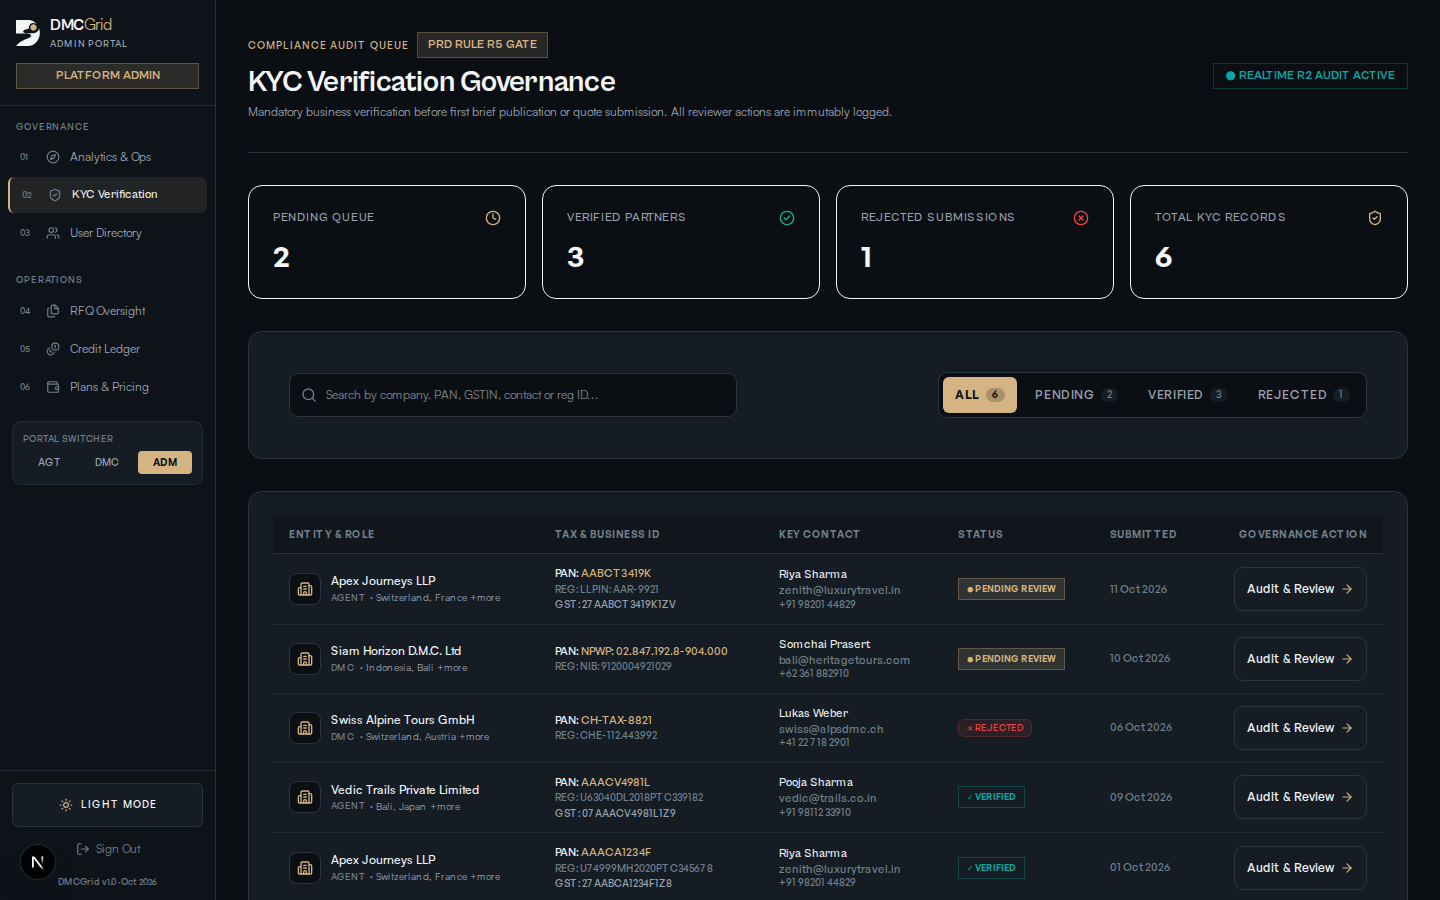
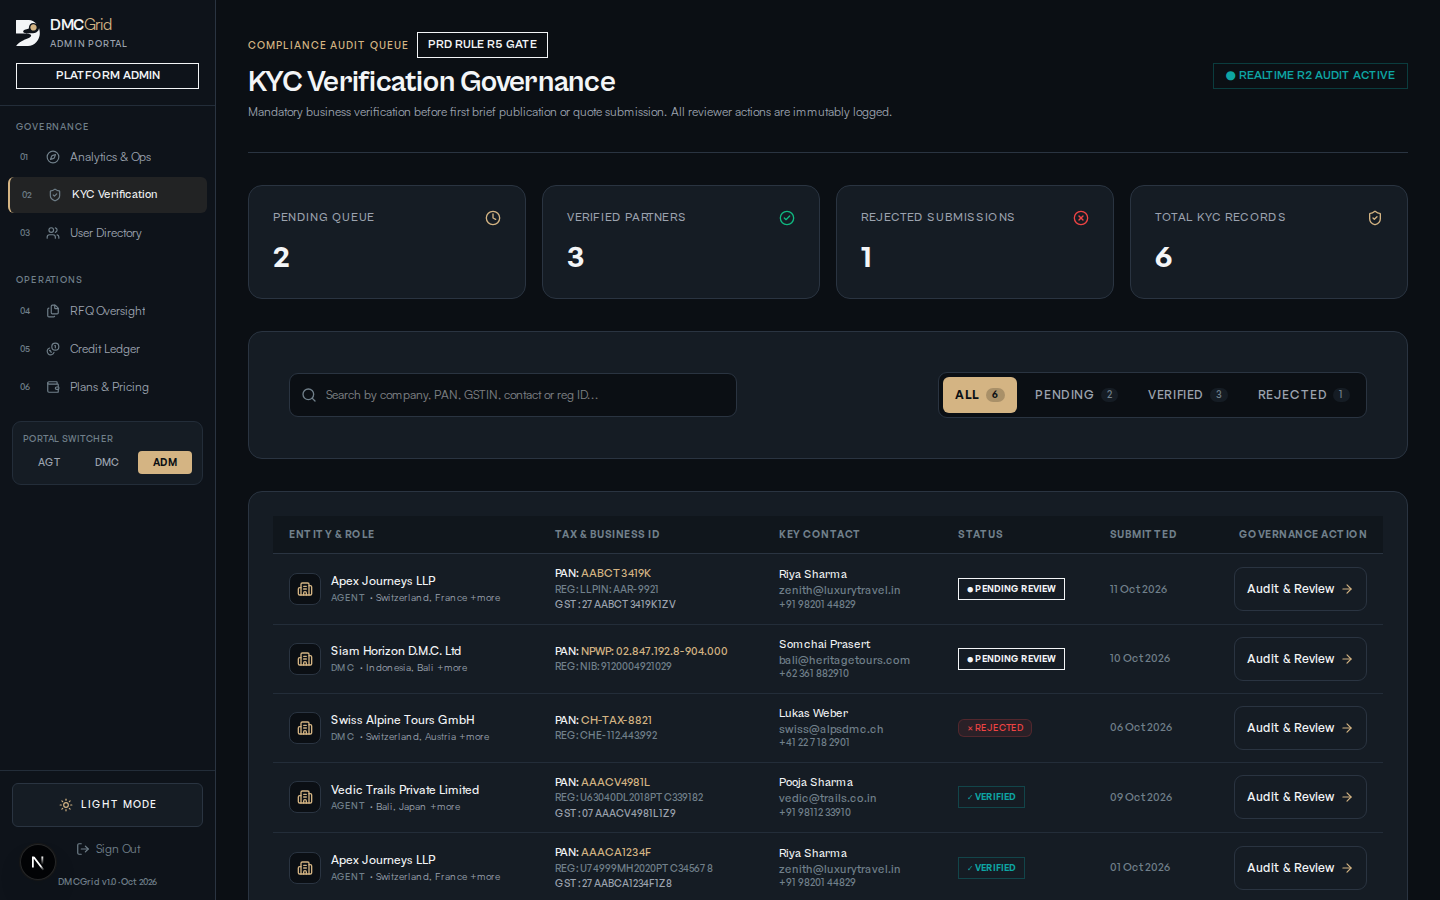
Design system: fix light-mode contrast + gray ground
- root cause: Card/Button/Badge/Input/Modal/StatCard hardcoded dark hexes with data-[theme=light]: SELF-variants that never inherit from <html> -> light mode kept light text on light cards
- all core ui components now theme via CSS vars (--bg-card, --border-line, --text-primary, --accent-gold-soft...)
- light ground: ivory #F7F3E9 -> gray #F2F3F5 per Dhrumil's directive (tokens.css + globals.css; sidebar/elevated/borders retuned)
- verified: wallet light-mode stat value rgb(11,15,20) on white; admin E2E 10/10; wave3 E2E 13/13; next build clean

diff --git a/platform/packages/ui/src/components/modal.tsx b/platform/packages/ui/src/components/modal.tsx
@@ -71,29 +71,29 @@ export function Modal({
         className={cn(
           'relative w-full rounded-[14px] p-6 shadow-2xl z-10 transition-all duration-200 ease-[cubic-bezier(0.23,1,0.32,1)]',
           'bg-[#1F2937] border border-[#2A3441] text-[#F3F5F7]',
-          'data-[theme=light]:bg-[#FFFFFF] data-[theme=light]:border-[#D6E0E3] data-[theme=light]:text-[#0B0F14]',
+          'bg-[var(--bg-card)] border border-[var(--border-line)] text-[var(--text-primary)]',
           maxWidths[maxWidth],
           className
         )}
       >
         {/* Header */}
         {(title || description) && (
-          <div className="flex items-start justify-between gap-4 pb-4 border-b border-[#2A3441]/60 data-[theme=light]:border-[#D6E0E3]">
+          <div className="flex items-start justify-between gap-4 pb-4 border-b border-[var(--border-subtle)]">
             <div className="space-y-1">
               {title && (
-                <h3 className="text-base font-semibold tracking-tight text-[#F3F5F7] data-[theme=light]:text-[#0B0F14]">
+                <h3 className="text-base font-semibold tracking-tight text-[var(--text-primary)]">
                   {title}
                 </h3>
               )}
               {description && (
-                <p className="text-xs text-[#9CA3AF] data-[theme=light]:text-[#71808B]">
+                <p className="text-xs text-[var(--text-muted)]">
                   {description}
                 </p>
               )}
             </div>
             <button
               onClick={onClose}
-              className="text-[#9CA3AF] hover:text-[#F3F5F7] data-[theme=light]:hover:text-[#0B0F14] transition-colors p-1 rounded-md min-h-[36px] min-w-[36px] flex items-center justify-center"
+              className="text-[var(--text-secondary)] hover:text-[var(--text-primary)] transition-colors p-1 rounded-md min-h-[36px] min-w-[36px] flex items-center justify-center"
               aria-label="Close modal"
             >
               <X className="w-4 h-4" />
@@ -102,13 +102,13 @@ export function Modal({
         )}
 
         {/* Content */}
-        <div className="py-4 text-xs leading-relaxed text-[#F3F5F7] data-[theme=light]:text-[#0B0F14]">
+        <div className="py-4 text-xs leading-relaxed text-[var(--text-primary)]">
           {children}
         </div>
 
         {/* Footer */}
         {footer && (
-          <div className="pt-4 border-t border-[#2A3441]/60 data-[theme=light]:border-[#D6E0E3] flex items-center justify-end gap-3">
+          <div className="pt-4 border-t border-[var(--border-subtle)] flex items-center justify-end gap-3">
             {footer}
           </div>
         )}

diff --git a/platform/packages/ui/src/components/button.tsx b/platform/packages/ui/src/components/button.tsx
@@ -16,19 +16,16 @@ export const Button = React.forwardRef<HTMLButtonElement, ButtonProps>(
       'disabled:opacity-50 disabled:pointer-events-none disabled:active:scale-100 rounded-[9px] min-h-[44px]';
 
     const variants: Record<NonNullable<ButtonProps['variant']>, string> = {
-      // Luxury B2B: Black & White / Deep Slate CTAs, never garish gold buttons
+      // Luxury B2B: Black & White / Deep Slate CTAs, never garish gold buttons.
+      // Theme via CSS vars only — data-[theme=light]: self-variants don't inherit from <html>.
       primary:
-        'bg-[#F3F5F7] text-[#0B0F14] hover:bg-white shadow-[0_1px_3px_rgba(0,0,0,0.2)] ' +
-        'data-[theme=light]:bg-[#0B0F14] data-[theme=light]:text-[#F7F3E9] data-[theme=light]:hover:bg-[#1F2937]',
+        'bg-[var(--text-primary)] text-[var(--bg-card)] hover:opacity-90 shadow-[0_1px_3px_rgba(0,0,0,0.2)]',
       secondary:
-        'bg-[#1F2937] text-[#F3F5F7] border border-[#2A3441] hover:bg-[#232D39] hover:border-[#3E4A54] ' +
-        'data-[theme=light]:bg-[#FFFFFF] data-[theme=light]:text-[#0B0F14] data-[theme=light]:border-[#D6E0E3] data-[theme=light]:hover:bg-[#F3F5F7]',
+        'bg-[var(--bg-elevated)] text-[var(--text-primary)] border border-[var(--border-line)] hover:border-[var(--text-muted)]',
       outline:
-        'bg-transparent text-[#F3F5F7] border border-[#2A3441] hover:bg-[#1F2937] hover:border-[#3E4A54] ' +
-        'data-[theme=light]:text-[#0B0F14] data-[theme=light]:border-[#D6E0E3] data-[theme=light]:hover:bg-[#F3F5F7]',
+        'bg-transparent text-[var(--text-primary)] border border-[var(--border-line)] hover:bg-[var(--bg-card-hover)]',
       ghost:
-        'bg-transparent text-[#9CA3AF] hover:text-[#F3F5F7] hover:bg-[#1F2937]/50 ' +
-        'data-[theme=light]:text-[#55636E] data-[theme=light]:hover:text-[#0B0F14] data-[theme=light]:hover:bg-[#E8ECF0]',
+        'bg-transparent text-[var(--text-secondary)] hover:text-[var(--text-primary)] hover:bg-[var(--bg-card-hover)]',
       accent:
         'bg-[#D4B483] text-[#0B0F14] font-semibold hover:bg-[#c4a16f] shadow-[0_1px_3px_rgba(212,180,131,0.3)]',
       destructive:

diff --git a/platform/packages/ui/src/components/card.tsx b/platform/packages/ui/src/components/card.tsx
@@ -8,14 +8,11 @@ export interface CardProps extends React.HTMLAttributes<HTMLDivElement> {
 export function Card({ className, variant = 'default', children, ...props }: CardProps) {
   const variants: Record<NonNullable<CardProps['variant']>, string> = {
     default:
-      'bg-[#1F2937] border border-[#2A3441] text-[#F3F5F7] ' +
-      'data-[theme=light]:bg-[#FFFFFF] data-[theme=light]:border-[#D6E0E3] data-[theme=light]:text-[#0B0F14]',
+      'bg-[var(--bg-card)] border border-[var(--border-line)] text-[var(--text-primary)]',
     raised:
-      'bg-[#232D39] border border-[#2A3441] shadow-[0_4px_12px_rgba(0,0,0,0.18)] text-[#F3F5F7] ' +
-      'data-[theme=light]:bg-[#F3F5F7] data-[theme=light]:border-[#D6E0E3] data-[theme=light]:text-[#0B0F14]',
+      'bg-[var(--bg-card-hover)] border border-[var(--border-line)] shadow-[0_4px_12px_rgba(0,0,0,0.18)] text-[var(--text-primary)]',
     highlight:
-      'bg-[#1F2937] border border-[#D4B483]/40 shadow-[0_0_16px_rgba(212,180,131,0.06)] text-[#F3F5F7] ' +
-      'data-[theme=light]:bg-[#FFFFFF] data-[theme=light]:border-[#D4B483]/60 data-[theme=light]:text-[#0B0F14]',
+      'bg-[var(--bg-card)] border border-[var(--accent-gold-ring)] shadow-[0_0_16px_rgba(212,180,131,0.06)] text-[var(--text-primary)]',
   };
 
   return (
@@ -30,7 +27,7 @@ export function Card({ className, variant = 'default', children, ...props }: Car
 
 export function CardHeader({ className, children, ...props }: React.HTMLAttributes<HTMLDivElement>) {
   return (
-    <div className={cn('flex items-center justify-between gap-4 mb-4 pb-3 border-b border-[#2A3441]/60', className)} {...props}>
+    <div className={cn('flex items-center justify-between gap-4 mb-4 pb-3 border-b border-[var(--border-subtle)]', className)} {...props}>
       {children}
     </div>
   );

diff --git a/platform/packages/ui/src/components/badge.tsx b/platform/packages/ui/src/components/badge.tsx
@@ -12,15 +12,15 @@ export function Badge({ className, variant = 'default', dot = false, children, .
 
   const variants: Record<NonNullable<BadgeProps['variant']>, string> = {
     default:
-      'bg-[#1F2937] text-[#9CA3AF] border border-[#2A3441]',
+      'bg-[var(--bg-elevated)] text-[var(--text-secondary)] border border-[var(--border-line)]',
     gold:
-      'bg-[#D4B483]/15 text-[#D4B483] border border-[#D4B483]/30 font-semibold',
+      'bg-[var(--accent-gold-soft)] text-[var(--accent-gold)] border border-[var(--accent-gold-ring)] font-semibold',
     teal:
       'bg-[#0EA5A3]/15 text-[#0EA5A3] border border-[#0EA5A3]/30',
     verified:
       'bg-[#0EA5A3]/15 text-[#0EA5A3] border border-[#0EA5A3]/30 font-semibold',
     neutral:
-      'bg-[#1F2937] text-[#9CA3AF] border border-[#2A3441]',
+      'bg-[var(--bg-elevated)] text-[var(--text-secondary)] border border-[var(--border-line)]',
     success:
       'bg-[#10B981]/15 text-[#10B981] border border-[#10B981]/30',
     warning:
@@ -28,7 +28,7 @@ export function Badge({ className, variant = 'default', dot = false, children, .
     error:
       'bg-[#EF4444]/15 text-[#EF4444] border border-[#EF4444]/30',
     outline:
-      'bg-transparent text-[#9CA3AF] border border-[#2A3441]',
+      'bg-transparent text-[var(--text-secondary)] border border-[var(--border-line)]',
   };
 
   return (

diff --git a/platform/packages/ui/src/components/stat-card.tsx b/platform/packages/ui/src/components/stat-card.tsx
@@ -72,21 +72,21 @@ export function StatCard({
   return (
     <Card className={cn('flex flex-col justify-between gap-3', className)}>
       <div className="flex items-center justify-between">
-        <span className="text-xs uppercase font-medium tracking-wider text-[#9CA3AF]">
+        <span className="text-xs uppercase font-medium tracking-wider text-[var(--text-secondary)]">
           {displayTitle}
         </span>
         {icon && <span className="text-[#D4B483]">{icon}</span>}
       </div>
 
       <div className="flex items-baseline gap-2">
-        <span className="font-mono text-2xl lg:text-3xl font-semibold tracking-tight tabular-nums text-[#F3F5F7] data-[theme=light]:text-[#0B0F14]">
+        <span className="font-mono text-2xl lg:text-3xl font-semibold tracking-tight tabular-nums text-[var(--text-primary)]">
           {displayValue}
         </span>
         {renderDelta()}
       </div>
 
       {displaySubtitle && (
-        <p className="text-xs text-[#71808B] tracking-normal">
+        <p className="text-xs text-[var(--text-muted)] tracking-normal">
           {displaySubtitle}
         </p>
       )}

diff --git a/platform/packages/ui/src/components/input.tsx b/platform/packages/ui/src/components/input.tsx
@@ -24,7 +24,7 @@ export const Input = React.forwardRef<HTMLInputElement, InputProps>(
           ref={ref}
           className={cn(
             'min-h-[44px] h-[44px] w-full px-3.5 text-sm rounded-[9px] outline-none select-text ' +
-            'bg-[#0B0F14] border border-[#2A3441] text-[#F3F5F7] placeholder-[#71808B] ' +
+            'bg-[var(--bg-card)] border border-[var(--border-line)] text-[var(--text-primary)] placeholder-[var(--text-muted)] ' +
             'focus:border-[#D4B483] focus:ring-1 focus:ring-[#D4B483] ' +
             'transition-[border-color,box-shadow] duration-160 ease-[cubic-bezier(0.23,1,0.32,1)] ' +
             'disabled:opacity-50 disabled:cursor-not-allowed',

diff --git a/platform/packages/ui/src/components/brand-logo.tsx b/platform/packages/ui/src/components/brand-logo.tsx
@@ -32,7 +32,7 @@ export function BrandLogo({ className, size = 32, showWordmark = true }: BrandLo
         />
       </svg>
       {showWordmark && (
-        <span className="font-semibold text-lg tracking-tight font-primary text-[#F3F5F7] data-[theme=light]:text-[#0B0F14]">
+        <span className="font-semibold text-lg tracking-tight font-primary text-[var(--text-primary)]">
           DMC<span className="text-[#D4B483]">Grid</span>
         </span>
       )}

diff --git a/platform/apps/web/src/app/globals.css b/platform/apps/web/src/app/globals.css
@@ -158,15 +158,15 @@
 }
 
 [data-theme="light"] {
-  --bg-page: #F7F3E9;
+  --bg-page: #F2F3F5;
   --bg-surface: #FFFFFF;
   --bg-card: #FFFFFF;
-  --bg-card-hover: #F0ECE1;
-  --bg-sidebar: #EDE7DA;
-  --bg-elevated: #EDE7DA;
+  --bg-card-hover: #F5F6F8;
+  --bg-sidebar: #FFFFFF;
+  --bg-elevated: #E9EAEC;
 
   --border-line: #D6E0E3;
-  --border-subtle: #E2DDD2;
+  --border-subtle: #E5E7EB;
 
   --text-primary: #0B0F14;
   --text-secondary: #55636E;

diff --git a/platform/packages/tokens/src/tokens.css b/platform/packages/tokens/src/tokens.css
@@ -93,12 +93,12 @@
 
 /* ── Light Theme Variables ── */
 [data-theme="light"] {
-  --bg: #F7F3E9;
+  --bg: #F2F3F5;
   --surface: #FFFFFF;
-  --surface-raised: #F3F5F7;
+  --surface-raised: #F5F6F8;
   --surface-card: #FFFFFF;
   --line: #D6E0E3;
-  --line-soft: #E8ECF0;
+  --line-soft: #E5E7EB;
   --text-main: #0B0F14;
   --text-muted: #55636E;
   --text-sub: #71808B;
